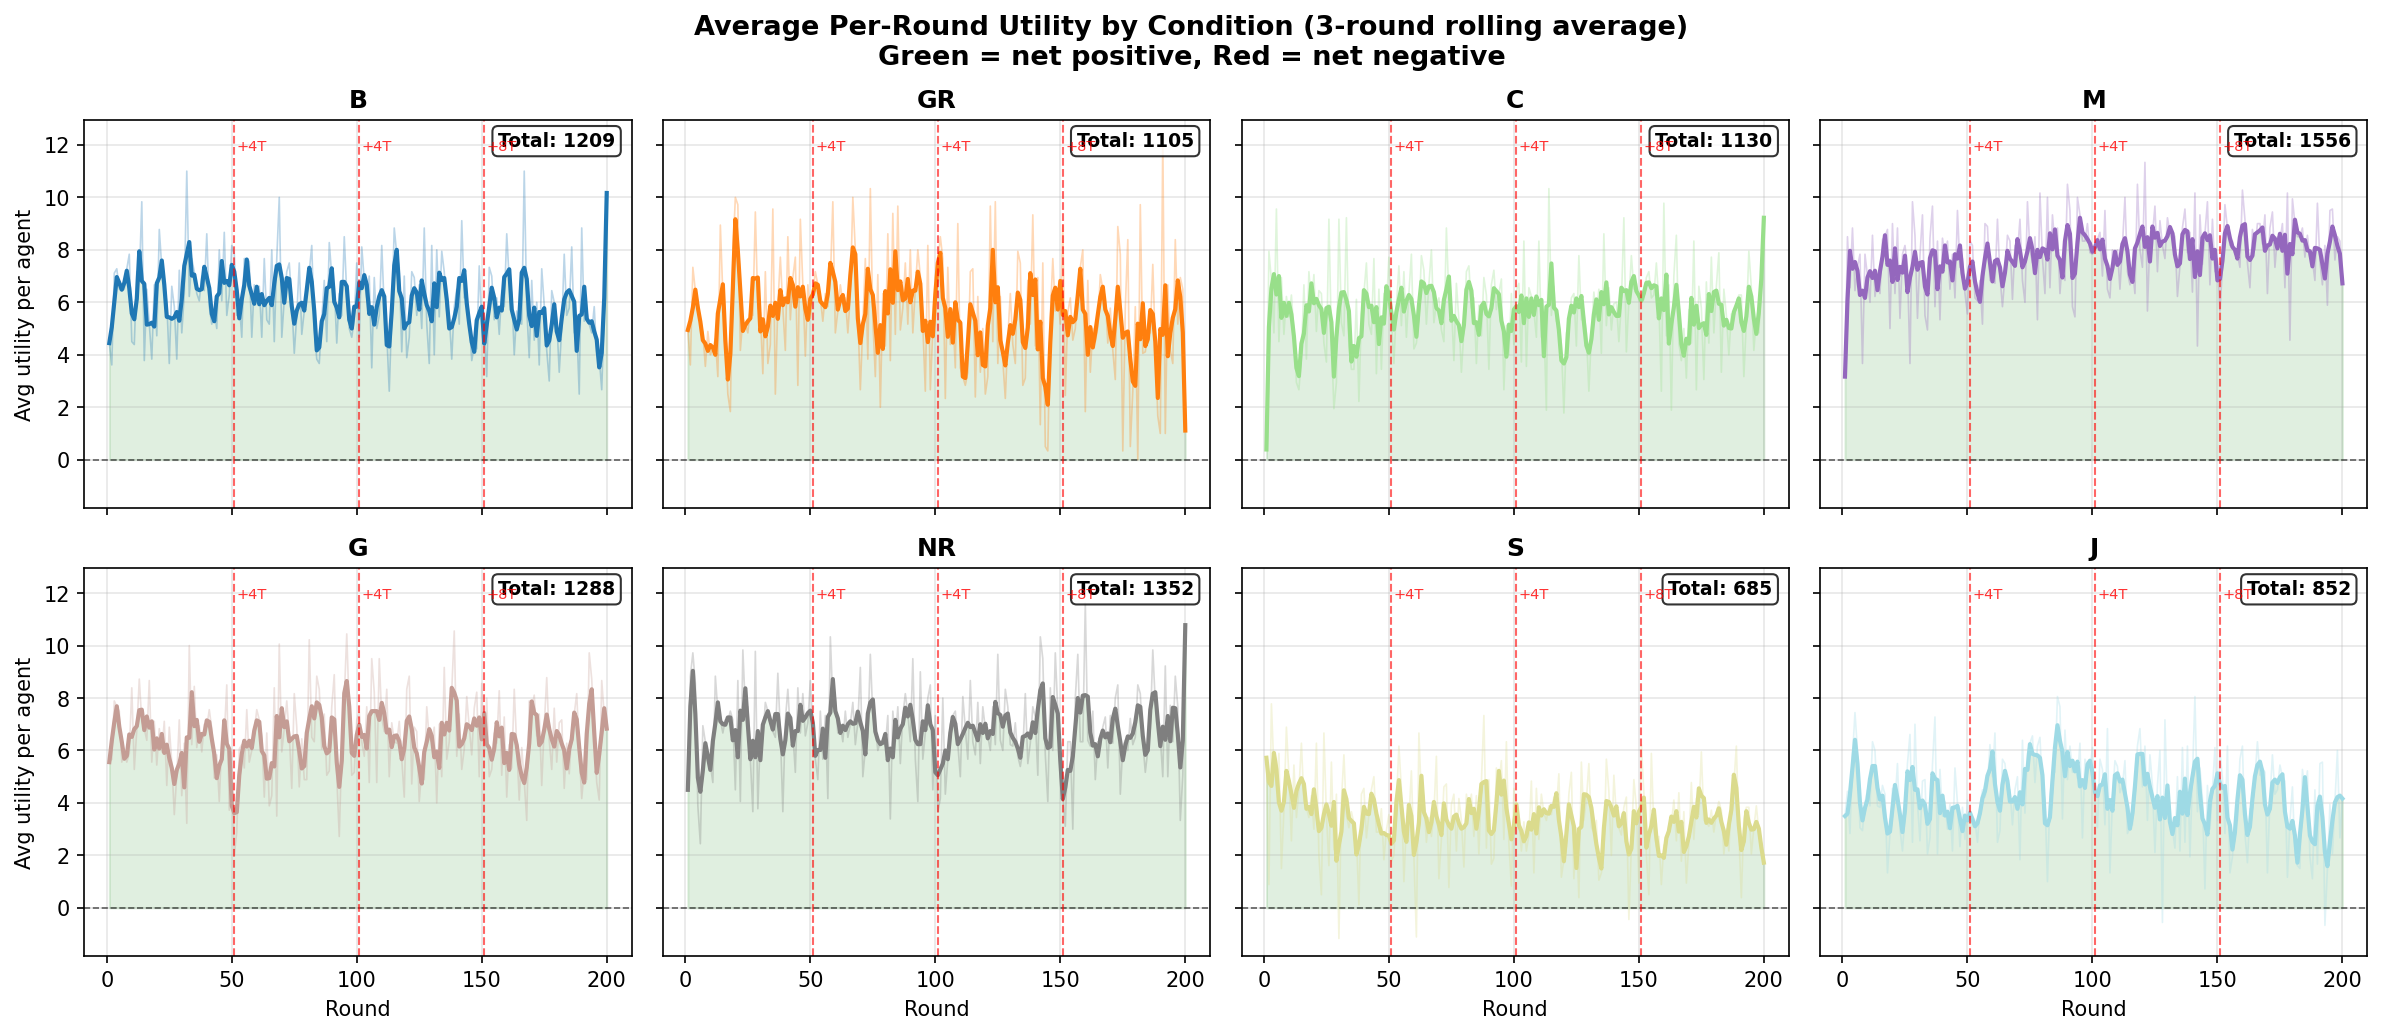
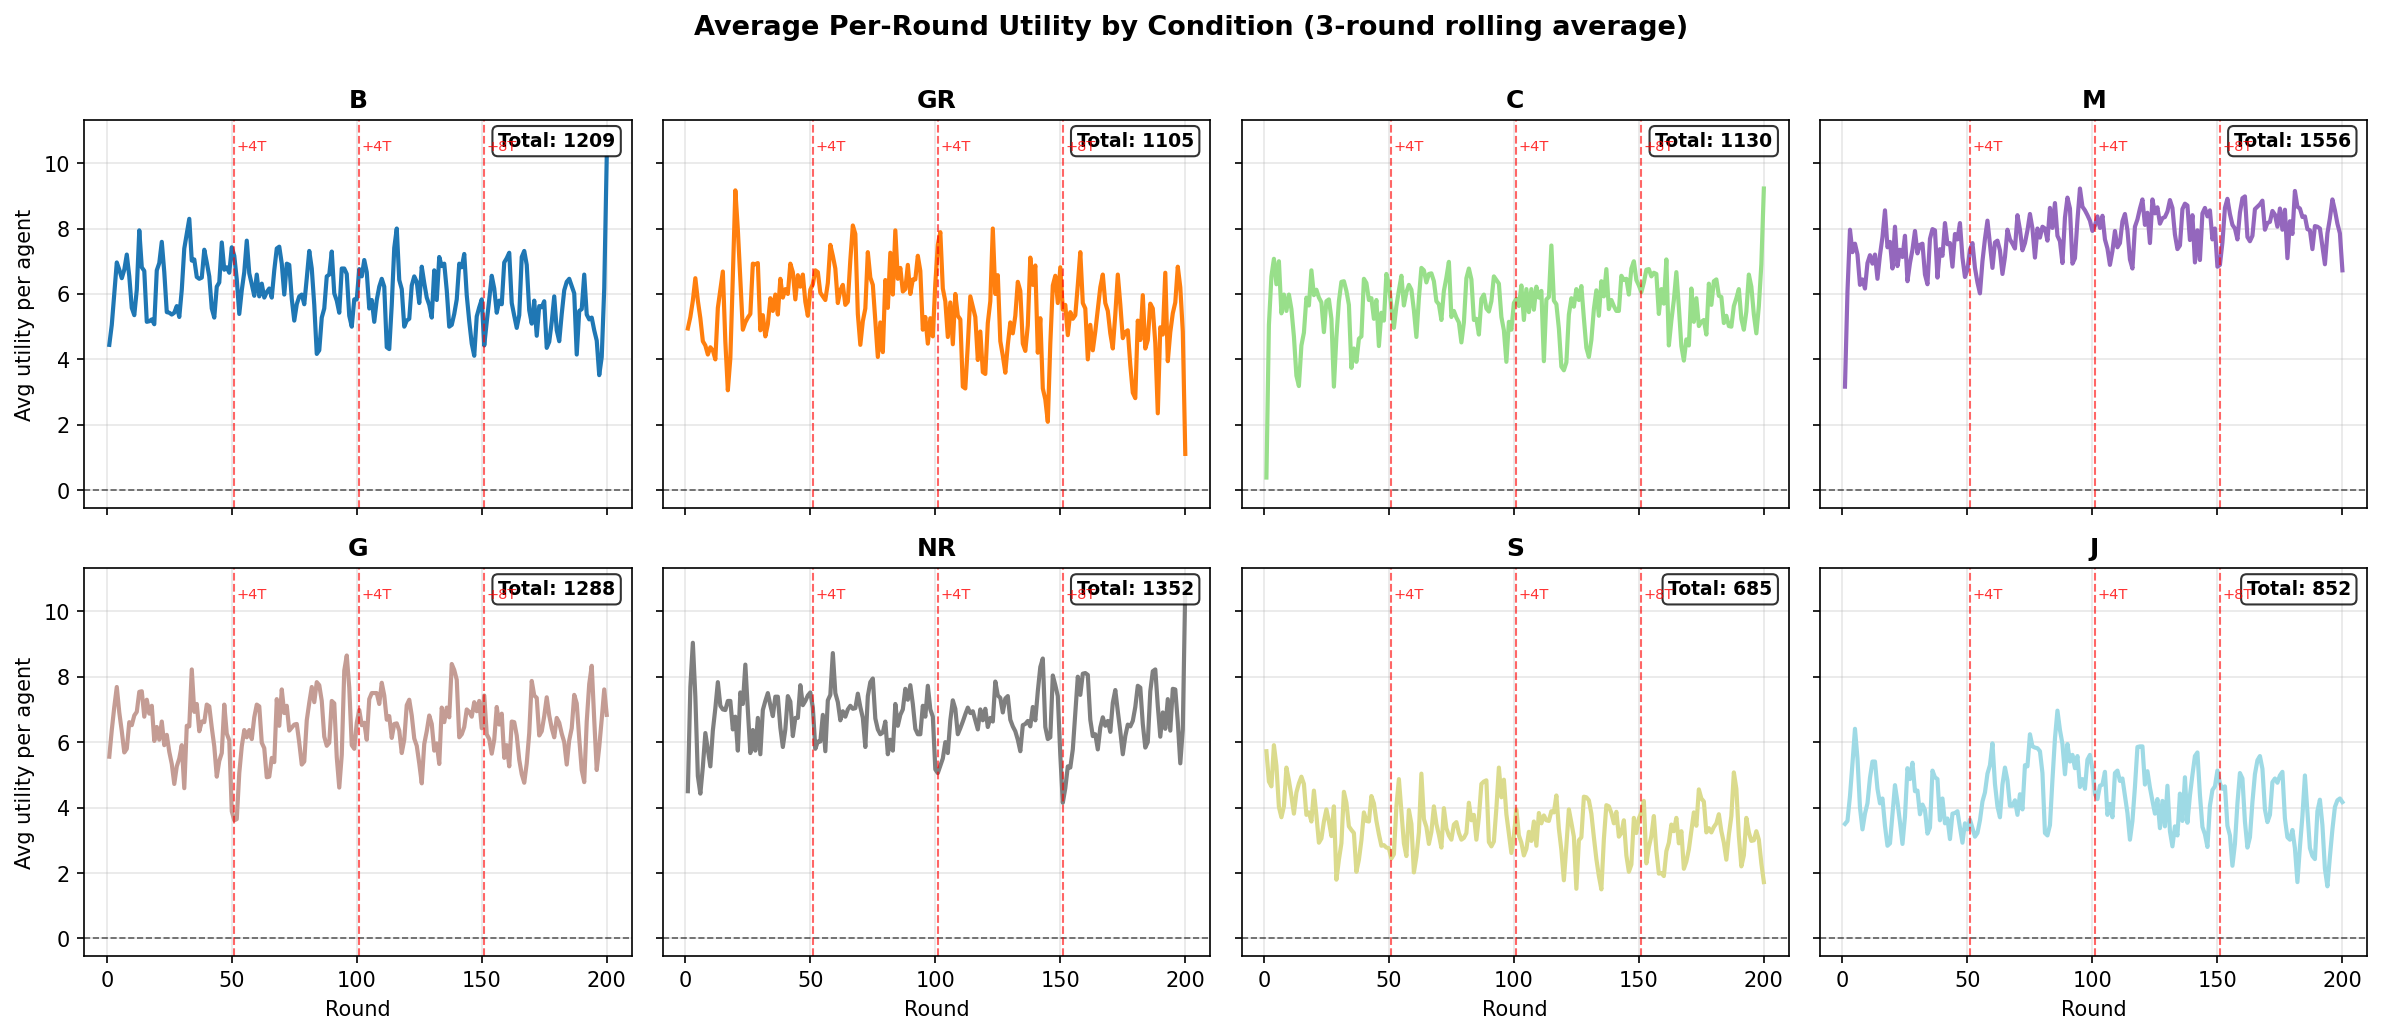
Clean up utility and trade volume plots: remove raw data lines and background fills

diff --git a/simulation/analysis/plots.py b/simulation/analysis/plots.py
@@ -286,7 +286,6 @@ def plot_trade_volume(save: bool = True) -> None:
             trade_counts, _ = _non_troll_trade_stats(runs)
             rounds = list(range(1, len(trade_counts) + 1))
             ax.plot(rounds, trade_counts, color=COLORS[condition], linewidth=1.8)
-            ax.fill_between(rounds, trade_counts, alpha=0.15, color=COLORS[condition])
 
             schedule = _get_troll_schedule(runs)
             if schedule:
@@ -672,13 +671,8 @@ def plot_utility_trajectories(save: bool = True) -> None:
             smoothed[-1] = raw[-1]
 
             rounds = list(range(1, n_rounds + 1))
-            ax.plot(rounds, raw, color=COLORS[condition], linewidth=0.8, alpha=0.3)
             ax.plot(rounds, smoothed, color=COLORS[condition], linewidth=2.0, label="3-round avg")
             ax.axhline(0, color="black", linestyle="--", linewidth=0.8, alpha=0.6)
-            ax.fill_between(rounds, smoothed, 0,
-                            where=[v >= 0 for v in smoothed], alpha=0.12, color="green")
-            ax.fill_between(rounds, smoothed, 0,
-                            where=[v < 0 for v in smoothed], alpha=0.12, color="red")
 
             total_util = sum(raw)
             ax.text(0.97, 0.97, f"Total: {total_util:.0f}", transform=ax.transAxes,
@@ -700,7 +694,7 @@ def plot_utility_trajectories(save: bool = True) -> None:
     for ax in axes[:, 0]:
         ax.set_ylabel("Avg utility per agent")
 
-    fig.suptitle("Average Per-Round Utility by Condition (3-round rolling average)\nGreen = net positive, Red = net negative",
+    fig.suptitle("Average Per-Round Utility by Condition (3-round rolling average)",
                  fontsize=13, fontweight="bold")
     plt.tight_layout(rect=[0, 0, 1, 0.93])
     _maybe_save(fig, "utility_trajectories.png", save)
